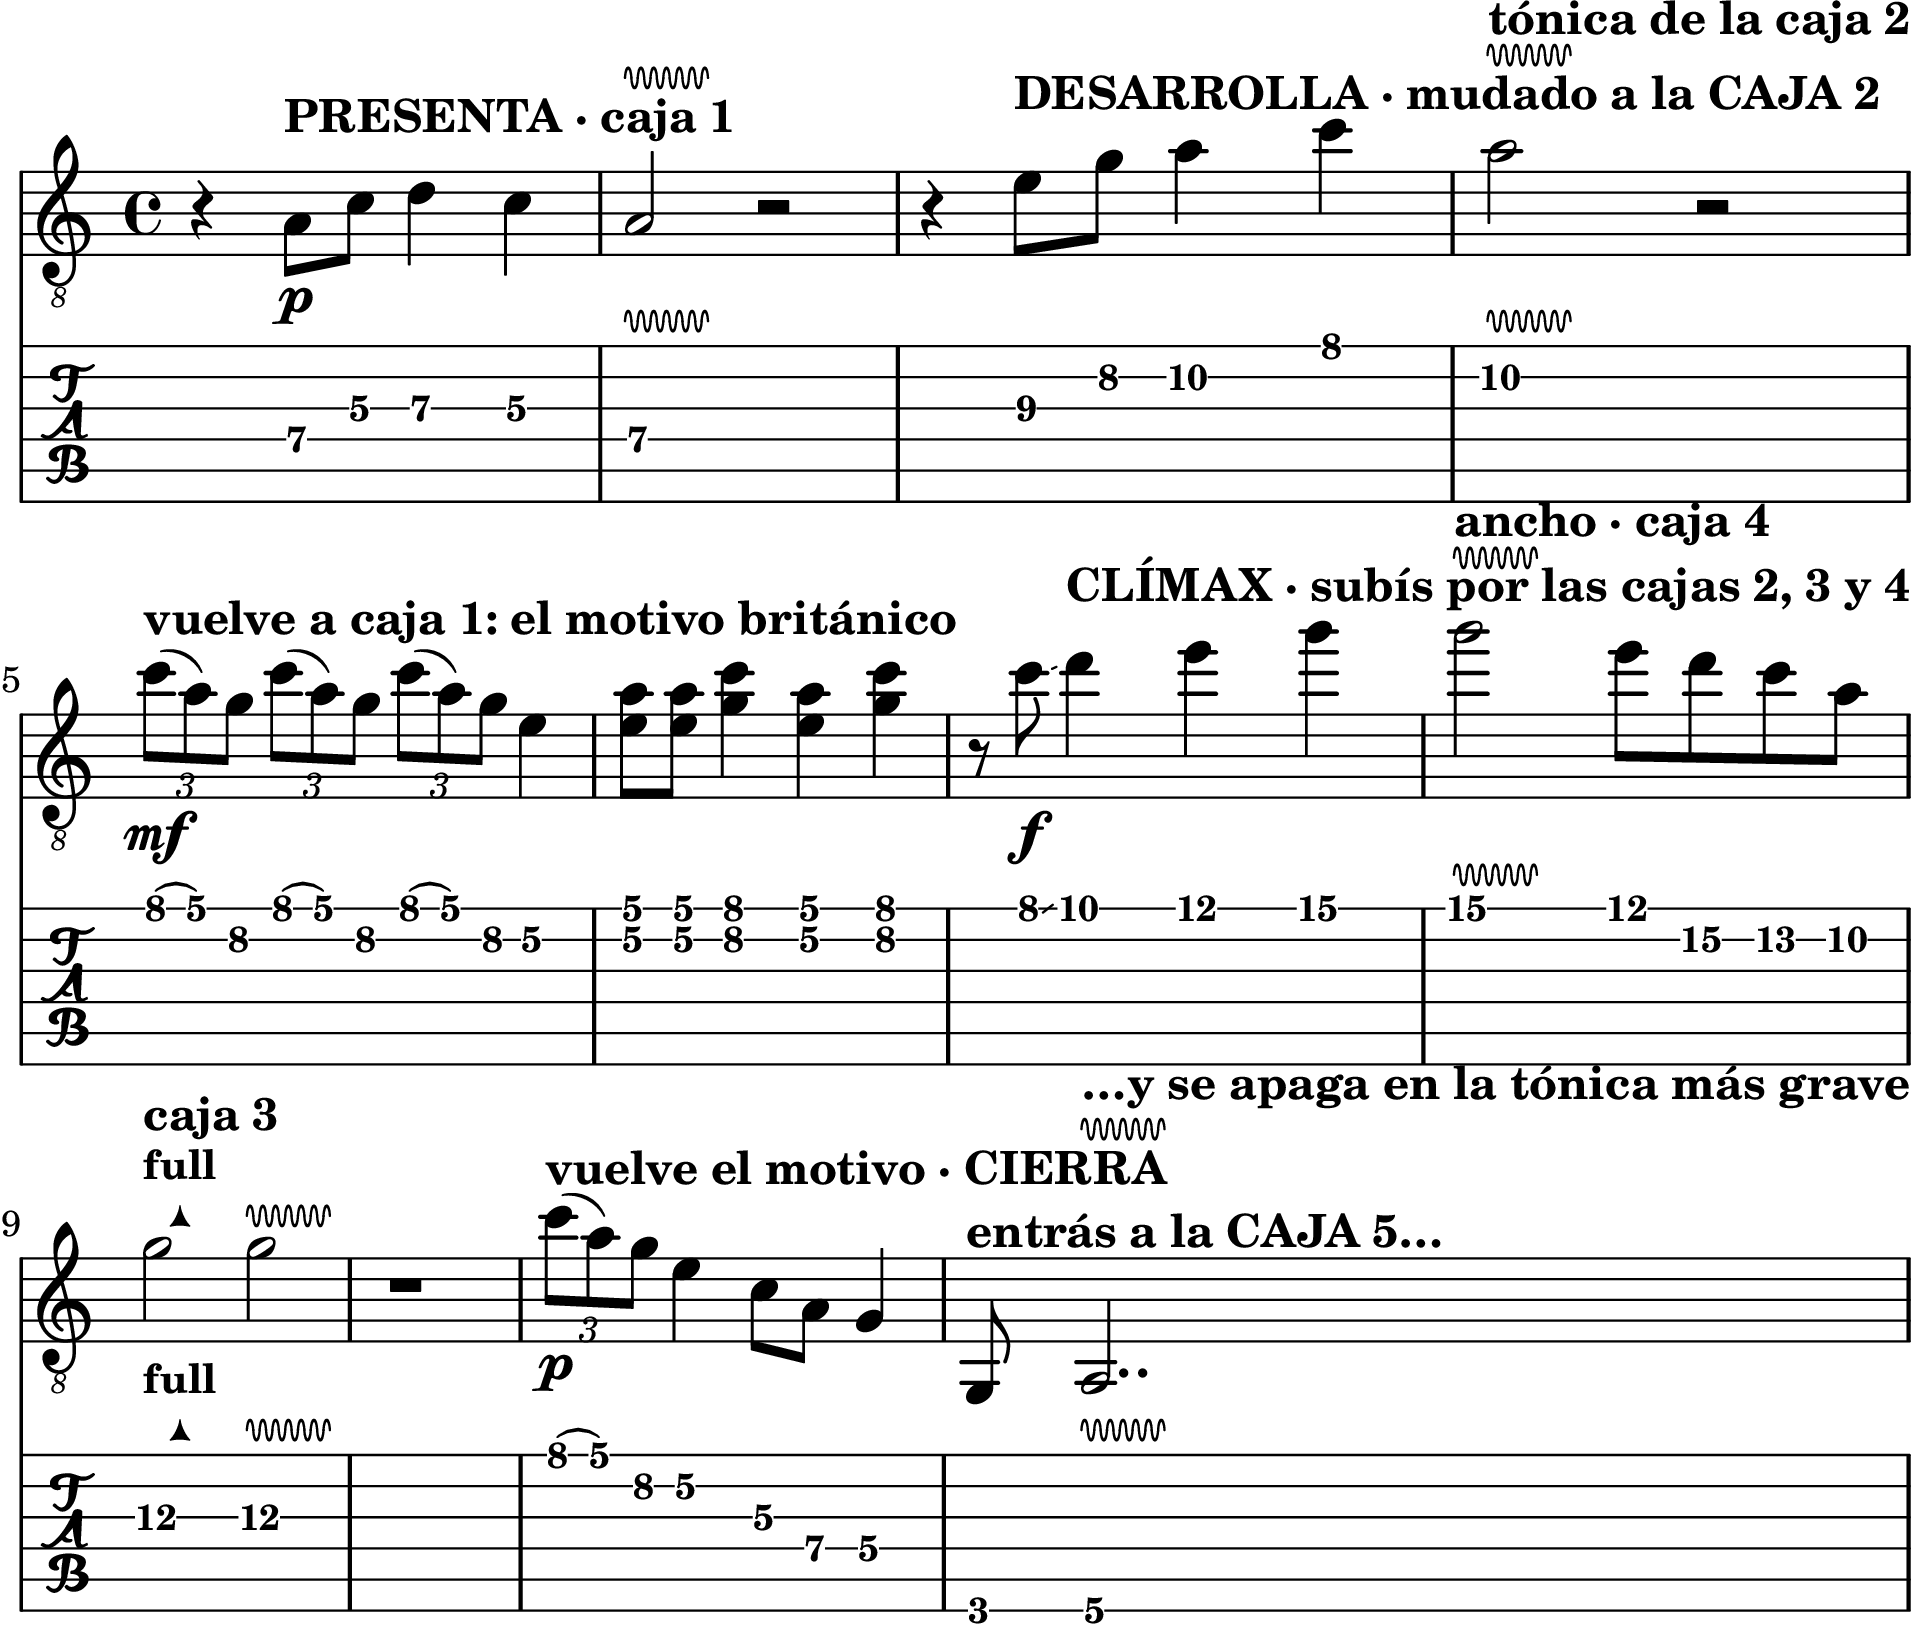
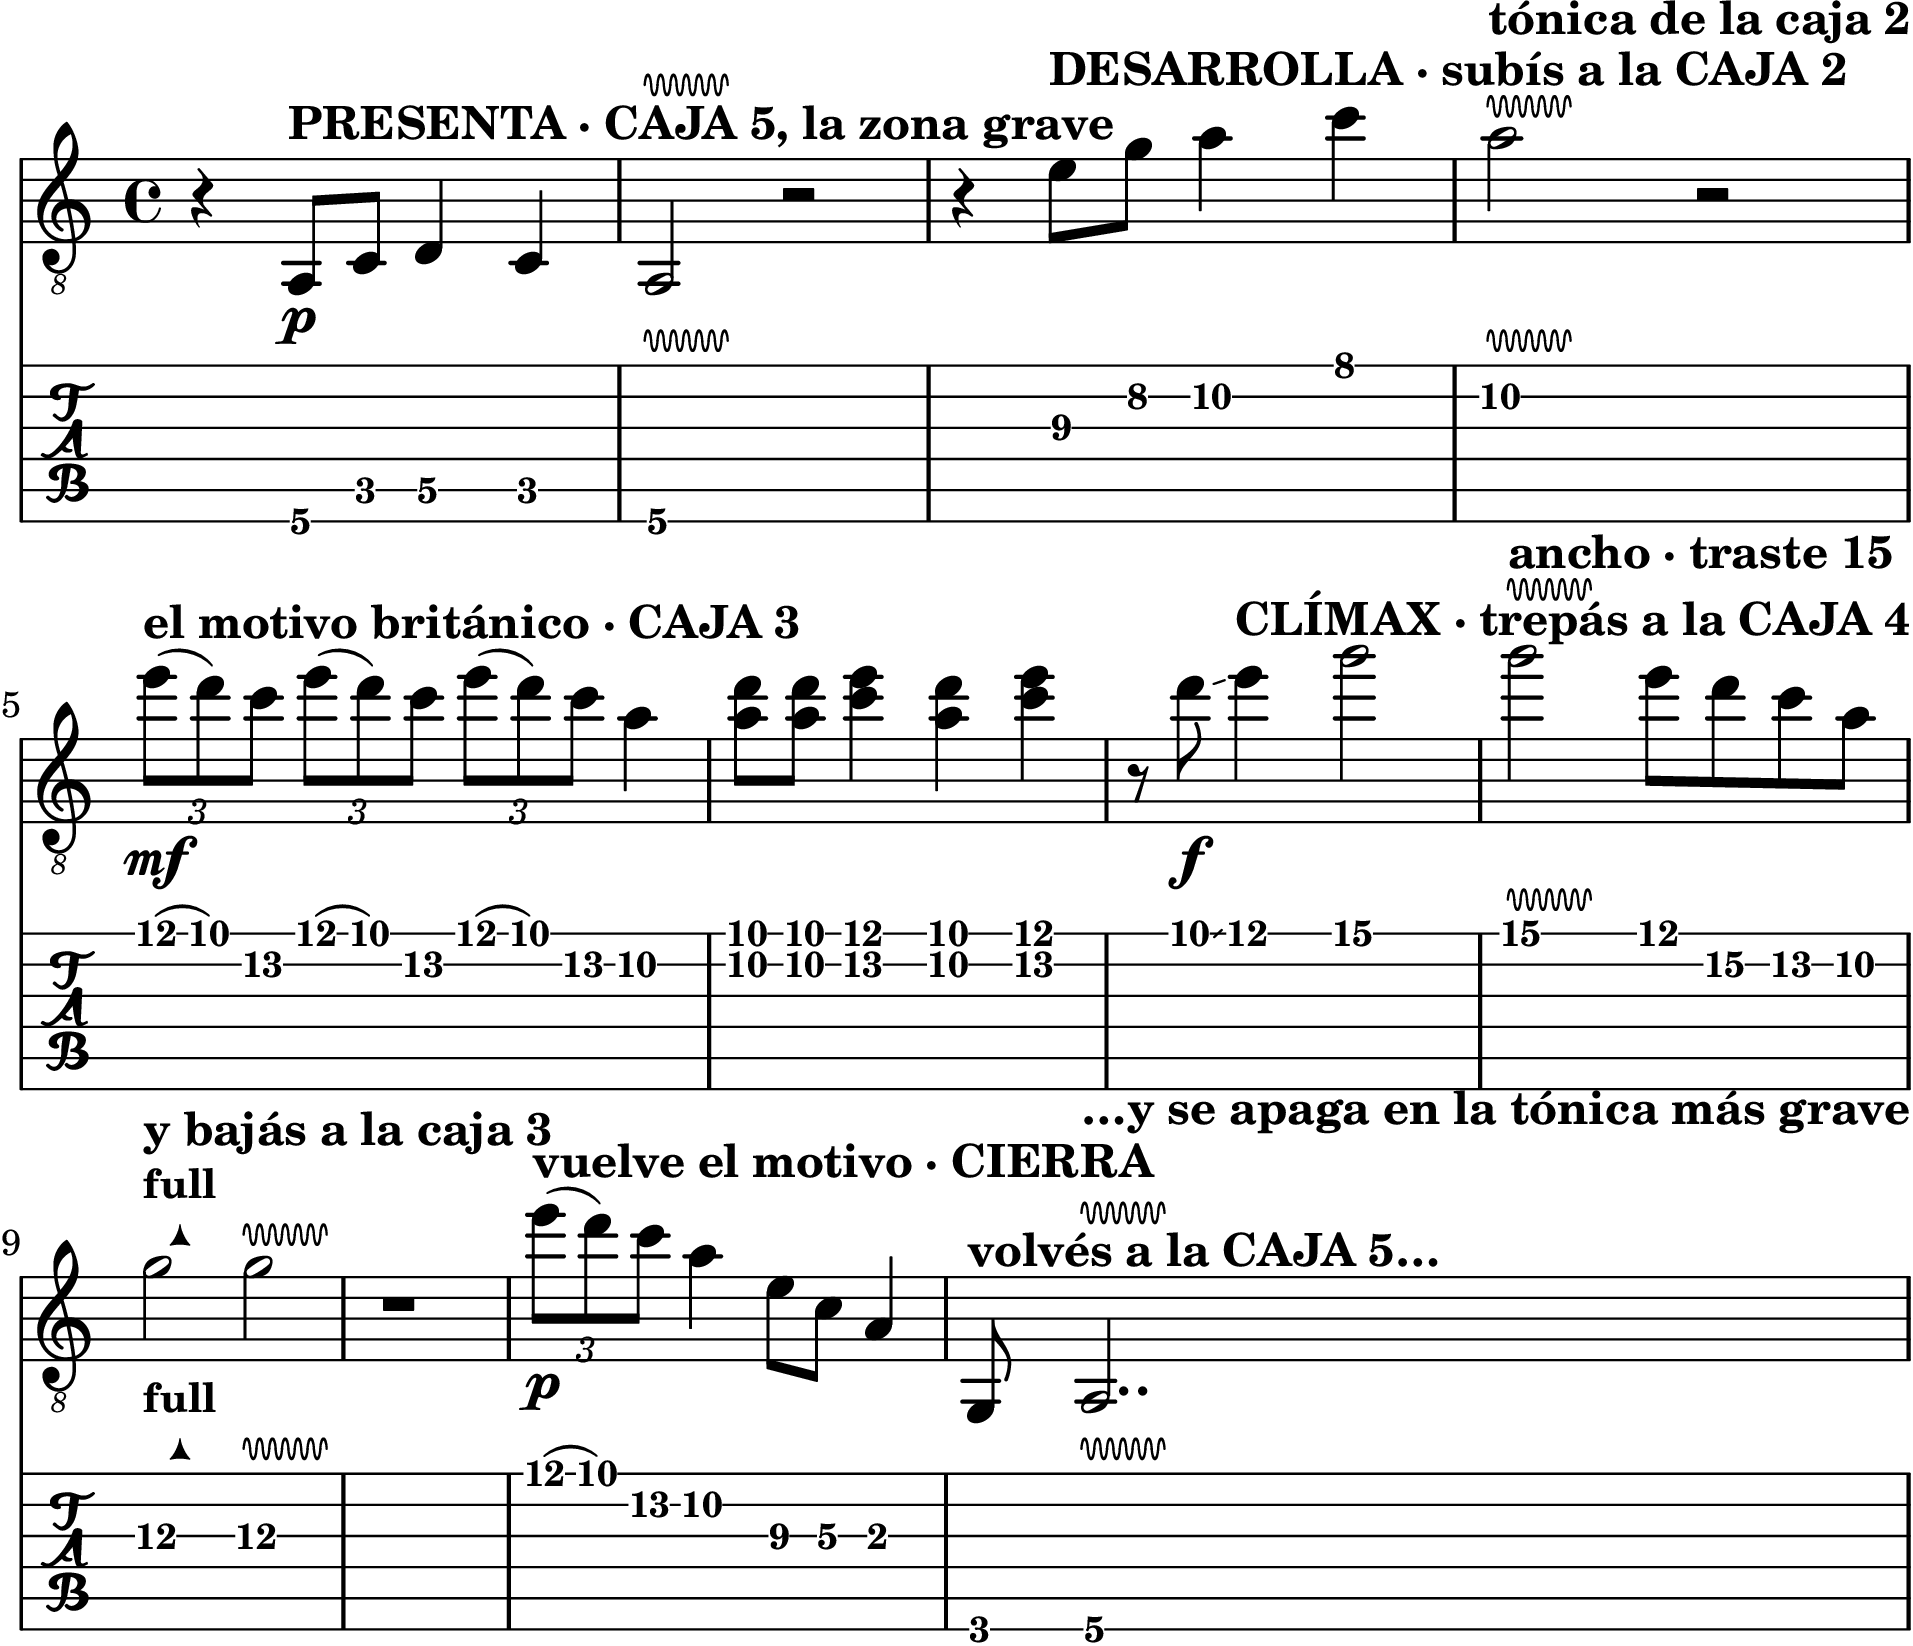
Hito 3: sacar el ej. 53 (el entregable) y el ej. 52 de la caja 1
Objeción de Feli, verificada contra la fuente y correcta: el ej. 53 es el
solo final -- o sea el video que el alumno graba como entregable y que
funciona como testimonio del programa -- y abría con seis compases
anclados en la caja 1. La promesa de la bio es "te movés por las cinco
cajas"; el trofeo la contradecía en el primer segundo. Medido: 72% de sus
notas caían dentro de la ventana 5-8, el peor numero del hito.

Ej. 53 -- ahora arranca en la CAJA 5, no en la 1:
  Recorrido nuevo: 5 -> 2 -> 3 -> 4 -> 3 -> 5 (antes 1 -> 2 -> 1 -> 4 -> 3 -> 1 -> 5).
  El arco no se rompe, se cumple mejor: la frase 1 tiene que ser GRAVE y
  simple, y la caja 5 (trastes 2-5) es mas grave que la caja 1. Ademas
  ahora abre y cierra en la misma zona, o sea que el solo vuelve a casa.
  De 28% a 86% fuera de la ventana 5-8, y pisa cajas exclusivas 4 y 5.

Ej. 52 (el leitmotiv) -- mudado entero a la CAJA 3:
  La razon documentada para dejarlo quieto era "tiene que ir en la misma
  caja las dos veces o el oido no reconoce el motivo". Sigue valiendo y se
  respeta: las dos apariciones estan en la misma caja. Lo que no hacia
  falta era que esa caja fuera la 1. Ahora usa la celda del ej. 47, asi
  que ademas queda enganchado con el.
  De 0% a 100% fuera de la ventana 5-8.

Los ej. 49 y 50 se dejan abriendo en la caja 1 a proposito: sus llegadas
ya estan repartidas en 4 cajas (1-2-3-5) y no tenian el problema. El
desfasaje con el 53 se explica en el texto y se convierte en contenido:
[…]

Changed region(s): [[0.0, 0.0, 1.0, 1.0]]

diff --git a/scripts/gen_scores_h3.py b/scripts/gen_scores_h3.py
@@ -279,30 +279,39 @@ EJ["e51"] = r"""
   <d''\2 g''\1>2^\markup{\bold "3 · doble cuerda que queda sonando · CAJA 4 (traste 15)"} <d''\2 g''\1>2 |
 """
 
-# 52: el motivo que vuelve (el truco que hace que un solo suene "armado")
+# 52: el motivo que vuelve (el truco que hace que un solo suene "armado").
+# Va en la CAJA 3, y las dos apariciones en la MISMA caja: si el motivo se muda
+# de posición al volver, el oído no lo reconoce y se pierde todo el efecto. Lo
+# que NO hacía falta era que esa caja fuera la 1 — acá es la celda del ej. 47.
 EJ["e52"] = r"""
-  \tuplet 3/2 { c''8\1( a'\1) g'\2 } e'4\2^\markup{\bold "el motivo, al principio"} r2 |
+  \tuplet 3/2 { e''8\1( d''\1) c''\2 } a'4\2^\markup{\bold "el motivo, al principio · CAJA 3"} r2 |
   r1 |
-  \tuplet 3/2 { c''8\1( a'\1) g'\2 } e'4\2^\markup{\bold "…y vuelve al final: el oído lo reconoce"} a4\4 r4 |
+  \tuplet 3/2 { e''8\1( d''\1) c''\2 } a'4\2^\markup{\bold "…y vuelve al final: el oído lo reconoce"} a'2\2 \tabSym \vib |
 """
 
 # 53: EL SOLO FINAL — 12 compases, el trofeo del programa.
-# Recorre cajas 1 -> 2 -> 3 -> 4 -> 3 -> 1 -> 5. Es la prueba de la promesa.
+# ARRANCA EN LA CAJA 5, no en la 1. Motivo: es el entregable, o sea el video que
+# funciona como testimonio, y la promesa del programa es "te movés por las cinco
+# cajas". Abrir seis compases anclado en la caja 1 contradecía esa promesa en el
+# primer segundo del video. La frase 1 tiene que ser GRAVE y simple — y la caja 5
+# (trastes 2-5) es mas grave que la caja 1, asi que el arco no se rompe: se cumple
+# mejor. Ademas abre y cierra en la misma zona: el solo vuelve a casa.
+# Recorre cajas 5 -> 2 -> 3 -> 4 -> 3 -> 5. Es la prueba de la promesa.
 EJ["e53"] = r"""
-  r4 a8\4\p^\markup{\bold "PRESENTA · caja 1"} c'\3 d'4\3 c'4\3 |
-  a2\4 \tabSym \vib r2 |
-  r4 e'8\3^\markup{\bold "DESARROLLA · mudado a la CAJA 2"} g'\2 a'4\2 c''4\1 |
+  r4 a,8\6\p^\markup{\bold "PRESENTA · CAJA 5, la zona grave"} c\5 d4\5 c4\5 |
+  a,2\6 \tabSym \vib r2 |
+  r4 e'8\3^\markup{\bold "DESARROLLA · subís a la CAJA 2"} g'\2 a'4\2 c''4\1 |
   a'2\2 \tabSym \vib ^\markup{\bold "tónica de la caja 2"} r2 |
-  \tuplet 3/2 { c''8\1\mf^\markup{\bold "vuelve a caja 1: el motivo británico"}( a'\1) g'\2 }
-  \tuplet 3/2 { c''8\1( a'\1) g'\2 }
-  \tuplet 3/2 { c''8\1( a'\1) g'\2 } e'4\2 |
-  <e'\2 a'\1>8 <e'\2 a'\1>8 <g'\2 c''\1>4 <e'\2 a'\1>4 <g'\2 c''\1>4 |
-  r8 c''8\1\f \glissando d''4\1^\markup{\bold "CLÍMAX · subís por las cajas 2, 3 y 4"} e''4\1 g''4\1 |
-  g''2\1 \tabSym \vib ^\markup{\bold "ancho · caja 4"} e''8\1 d''\2 c''\2 a'\2 |
-  g'2\3 \tabSym \bendFull ^\markup{\bold "caja 3"} g'2\3 \tabSym \vib |
+  \tuplet 3/2 { e''8\1\mf^\markup{\bold "el motivo británico · CAJA 3"}( d''\1) c''\2 }
+  \tuplet 3/2 { e''8\1( d''\1) c''\2 }
+  \tuplet 3/2 { e''8\1( d''\1) c''\2 } a'4\2 |
+  <a'\2 d''\1>8 <a'\2 d''\1>8 <c''\2 e''\1>4 <a'\2 d''\1>4 <c''\2 e''\1>4 |
+  r8 d''8\1\f \glissando e''4\1^\markup{\bold "CLÍMAX · trepás a la CAJA 4"} g''2\1 |
+  g''2\1 \tabSym \vib ^\markup{\bold "ancho · traste 15"} e''8\1 d''\2 c''\2 a'\2 |
+  g'2\3 \tabSym \bendFull ^\markup{\bold "y bajás a la caja 3"} g'2\3 \tabSym \vib |
   r1 |
-  \tuplet 3/2 { c''8\1\p^\markup{\bold "vuelve el motivo · CIERRA"}( a'\1) g'\2 } e'4\2 c'8\3 a\4 g4\4 |
-  g,8\6^\markup{\bold "entrás a la CAJA 5…"} a,2..\6 \tabSym \vib ^\markup{\bold "…y se apaga en la tónica más grave"} |
+  \tuplet 3/2 { e''8\1\p^\markup{\bold "vuelve el motivo · CIERRA"}( d''\1) c''\2 } a'4\2 e'8\3 c'\3 a4\3 |
+  g,8\6^\markup{\bold "volvés a la CAJA 5…"} a,2..\6 \tabSym \vib ^\markup{\bold "…y se apaga en la tónica más grave"} |
 """
 
 

diff --git a/scripts/build_hito3.py b/scripts/build_hito3.py
@@ -533,7 +533,10 @@ S.append(ejercicio(52, "El motivo que vuelve (esto tiene nombre: leitmotiv)", (
     "igual: Frusciante lo usa todo el tiempo, y es buena parte de por qué sus solos se te quedan pegados "
     "aunque no sepas por qué. Empieza con una idea simple, cantable, y la repite o la varía. Es exactamente "
     "lo que hiciste vos en este ejercicio. <i>(Éste sí va en la misma caja las dos veces, y es la única vez "
-    "que te lo voy a pedir: el motivo tiene que sonar IGUAL para que se reconozca.)</i>"),
+    "que te lo voy a pedir: el motivo tiene que sonar IGUAL para que se reconozca.)</i><br/><br/>"
+    "Fijate <b>cuál</b> caja: la 3, y el motivo es la misma celda del ejercicio 47. Que tenga que repetirse "
+    "idéntico no significa que tenga que vivir en la caja 1 — significa que las dos veces caiga en el mismo "
+    "lugar. Elegí el que quieras: lo único que no se negocia es que la vuelta suene igual que la ida."),
     "e52", W, "Metelo en tu solo: que la frase 1 y la frase 4 compartan algo."))
 
 # el solo final va entero en una pagina: el encabezado no se separa de la partitura
@@ -544,9 +547,19 @@ S.append(KeepTogether([
         "vibrato, ligados y dinámica (Hito 2), y está armado con vocabulario de las dos escuelas sobre el molde "
         "de cuatro frases, con el motivo que vuelve al final (Hito 3).", BODY),
     Paragraph(
-        "<b>El recorrido:</b> presenta en la caja 1, desarrolla mudado a la caja 2, vuelve a la 1 para el motivo "
-        "británico, sube por las cajas 2, 3 y 4 en el clímax, bendea en la 3 y baja a cerrar en la 5. "
-        "Siete cambios de zona en doce compases, y ninguno es gratuito: cada uno cae donde la frase lo pide.", BODY),
+        "<b>El recorrido:</b> presenta en la <b>caja 5</b> — la zona grave, abajo de todo —, desarrolla subiendo "
+        "a la caja 2, mete el motivo británico en la 3, trepa a la 4 en el clímax, bendea de vuelta en la 3 y "
+        "cierra bajando otra vez a la 5. Seis cambios de zona en doce compases, y ninguno es gratuito: "
+        "cada uno cae donde la frase lo pide.", BODY),
+    Paragraph(
+        "<b>Y fijate que no arranca en la caja 1.</b> Es a propósito, y es la decisión más importante de toda "
+        "la página: éste es el video que vas a mostrar como prueba de tres meses de trabajo. La frase de "
+        "apertura tiene que ser grave y simple — pero grave no quiere decir caja 1, quiere decir <i>abajo</i>, "
+        "y la caja 5 está más abajo todavía. Abrir ahí prueba la promesa del programa en el primer segundo, "
+        "en vez de contradecirla. Además el solo abre y cierra en la misma zona: <b>vuelve a casa</b>. "
+        "Los ejercicios 49 y 50 abren en la caja 1 y éste en la 5 — no es un error: es la prueba de que "
+        "la arquitectura es <b>portátil</b>. El molde es \"grave, desarrollo, clímax, cierre\"; dónde "
+        "apoyás cada escalón lo elegís vos.", BODY),
     Paragraph(
         "Estudialo, tocalo, y después <b>usalo como modelo para el tuyo</b>. La consigna del entregable no es "
         "tocar éste: es que grabes uno propio con esta misma arquitectura.", BODY),
